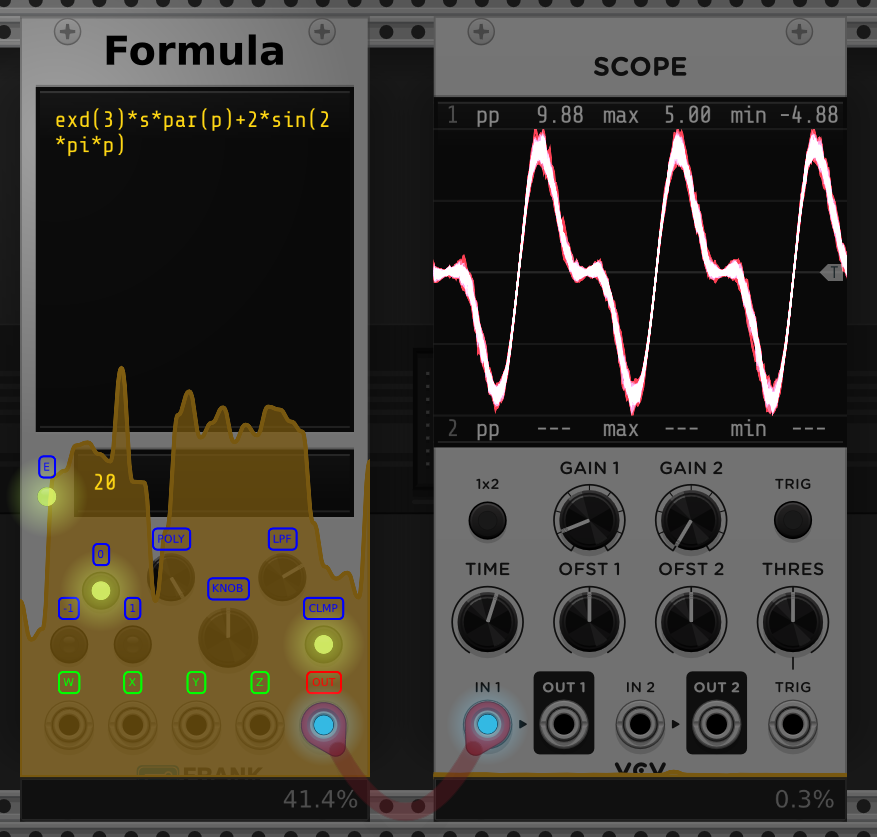
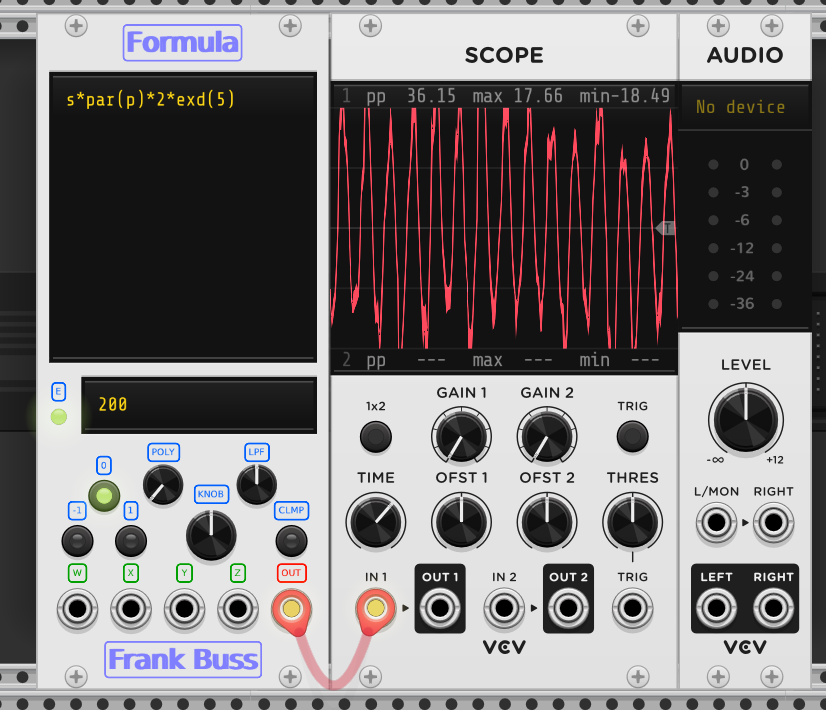
automated text for easier module coformal builds

diff --git a/src/UnofficialFrank.cpp b/src/UnofficialFrank.cpp
@@ -82,13 +82,13 @@ struct LabelWidget : LightWidget {//TransparentWidget {
 		float boldAlter = 1.0f;
 		switch(kind) {
 			case -1:// IN
-				textColor = nvgRGB(0, 255, 0);
+				textColor = nvgRGB(0, 160, 0);
 				break;
 			case 0: default: // NORMAL
-				textColor = nvgRGB(0, 0, 255);
+				textColor = nvgRGB(0, 96, 255);
 				break;
 			case 1: // OUT
-				textColor = nvgRGB(255, 0, 0);
+				textColor = nvgRGB(255, 16, 0);
 				break;
 			case 2: // TITLE
 				textColor = nvgRGB(127, 127, 255);